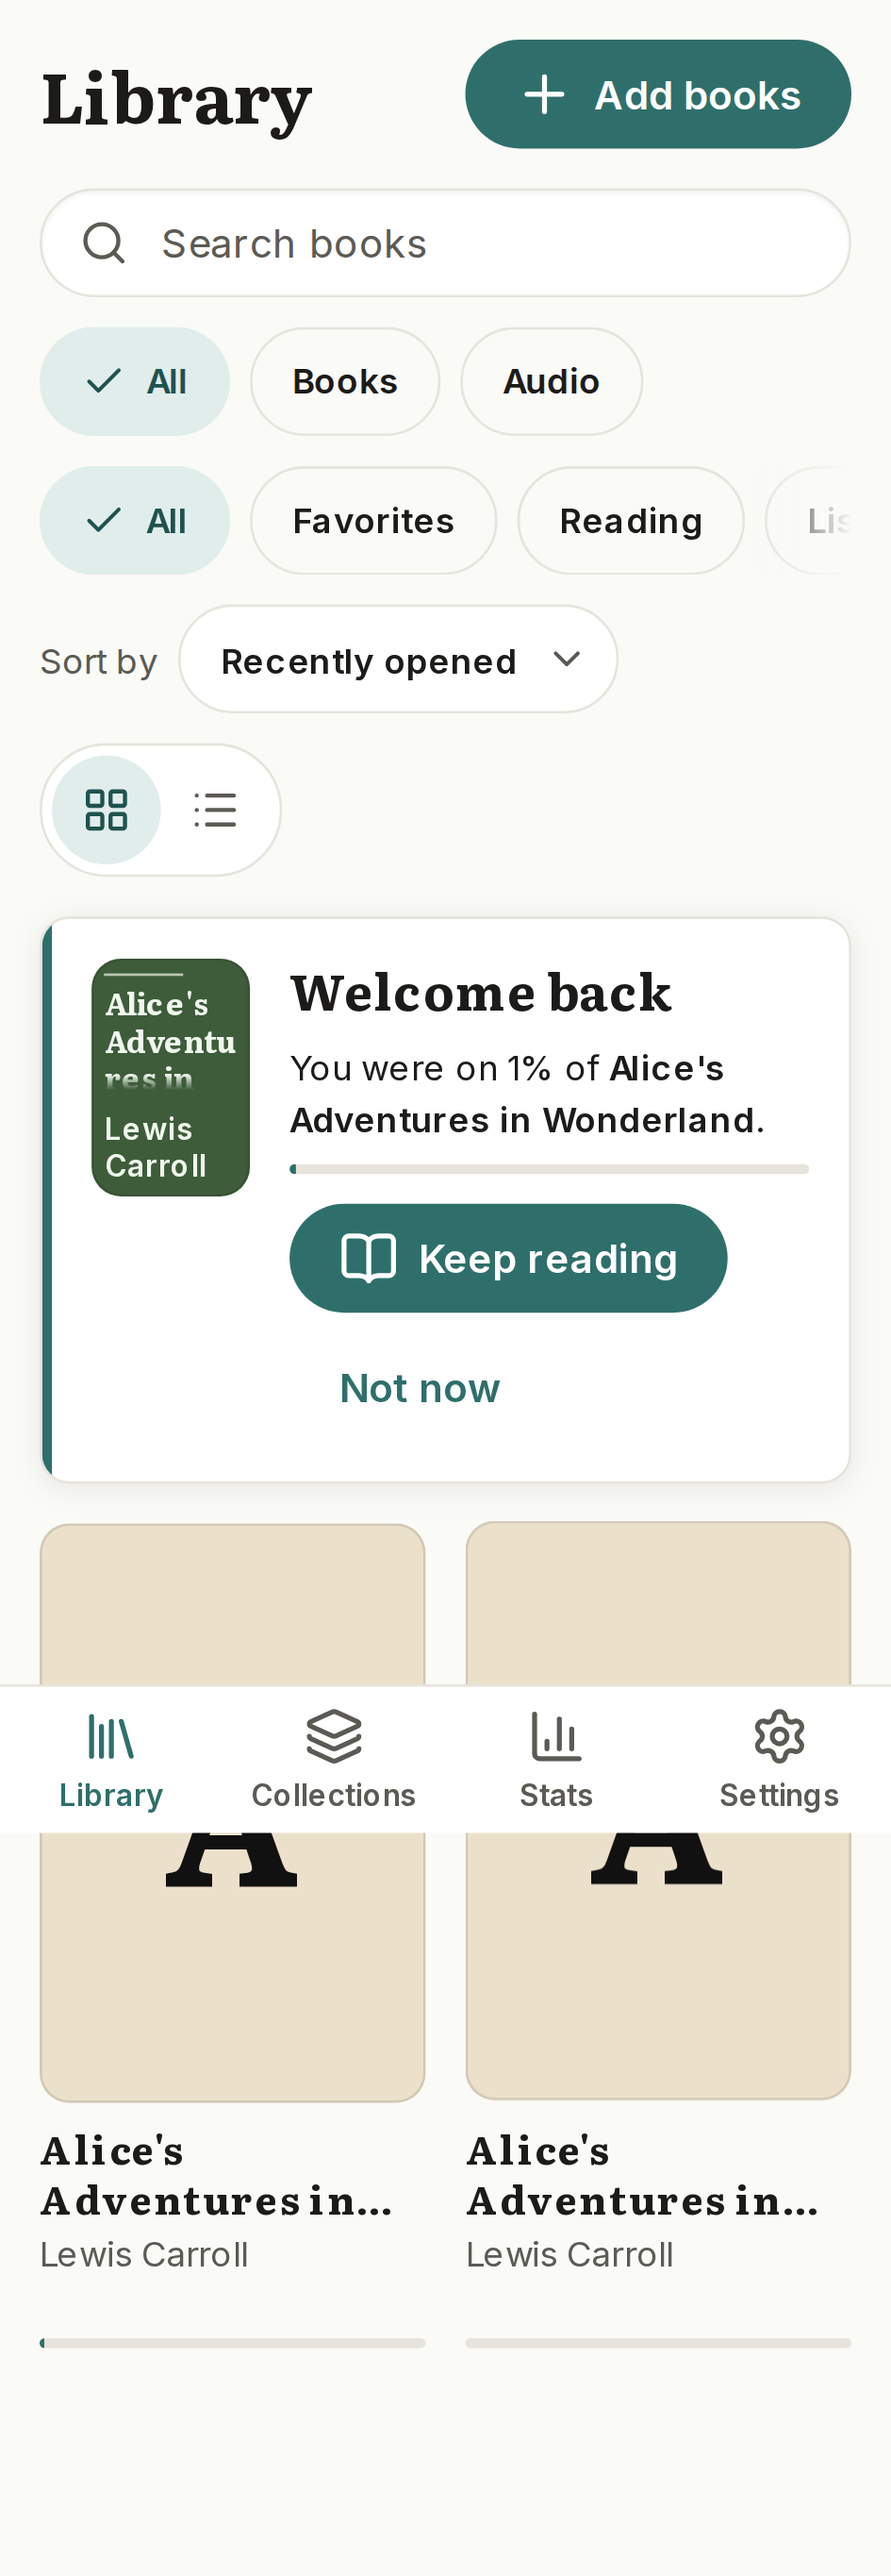
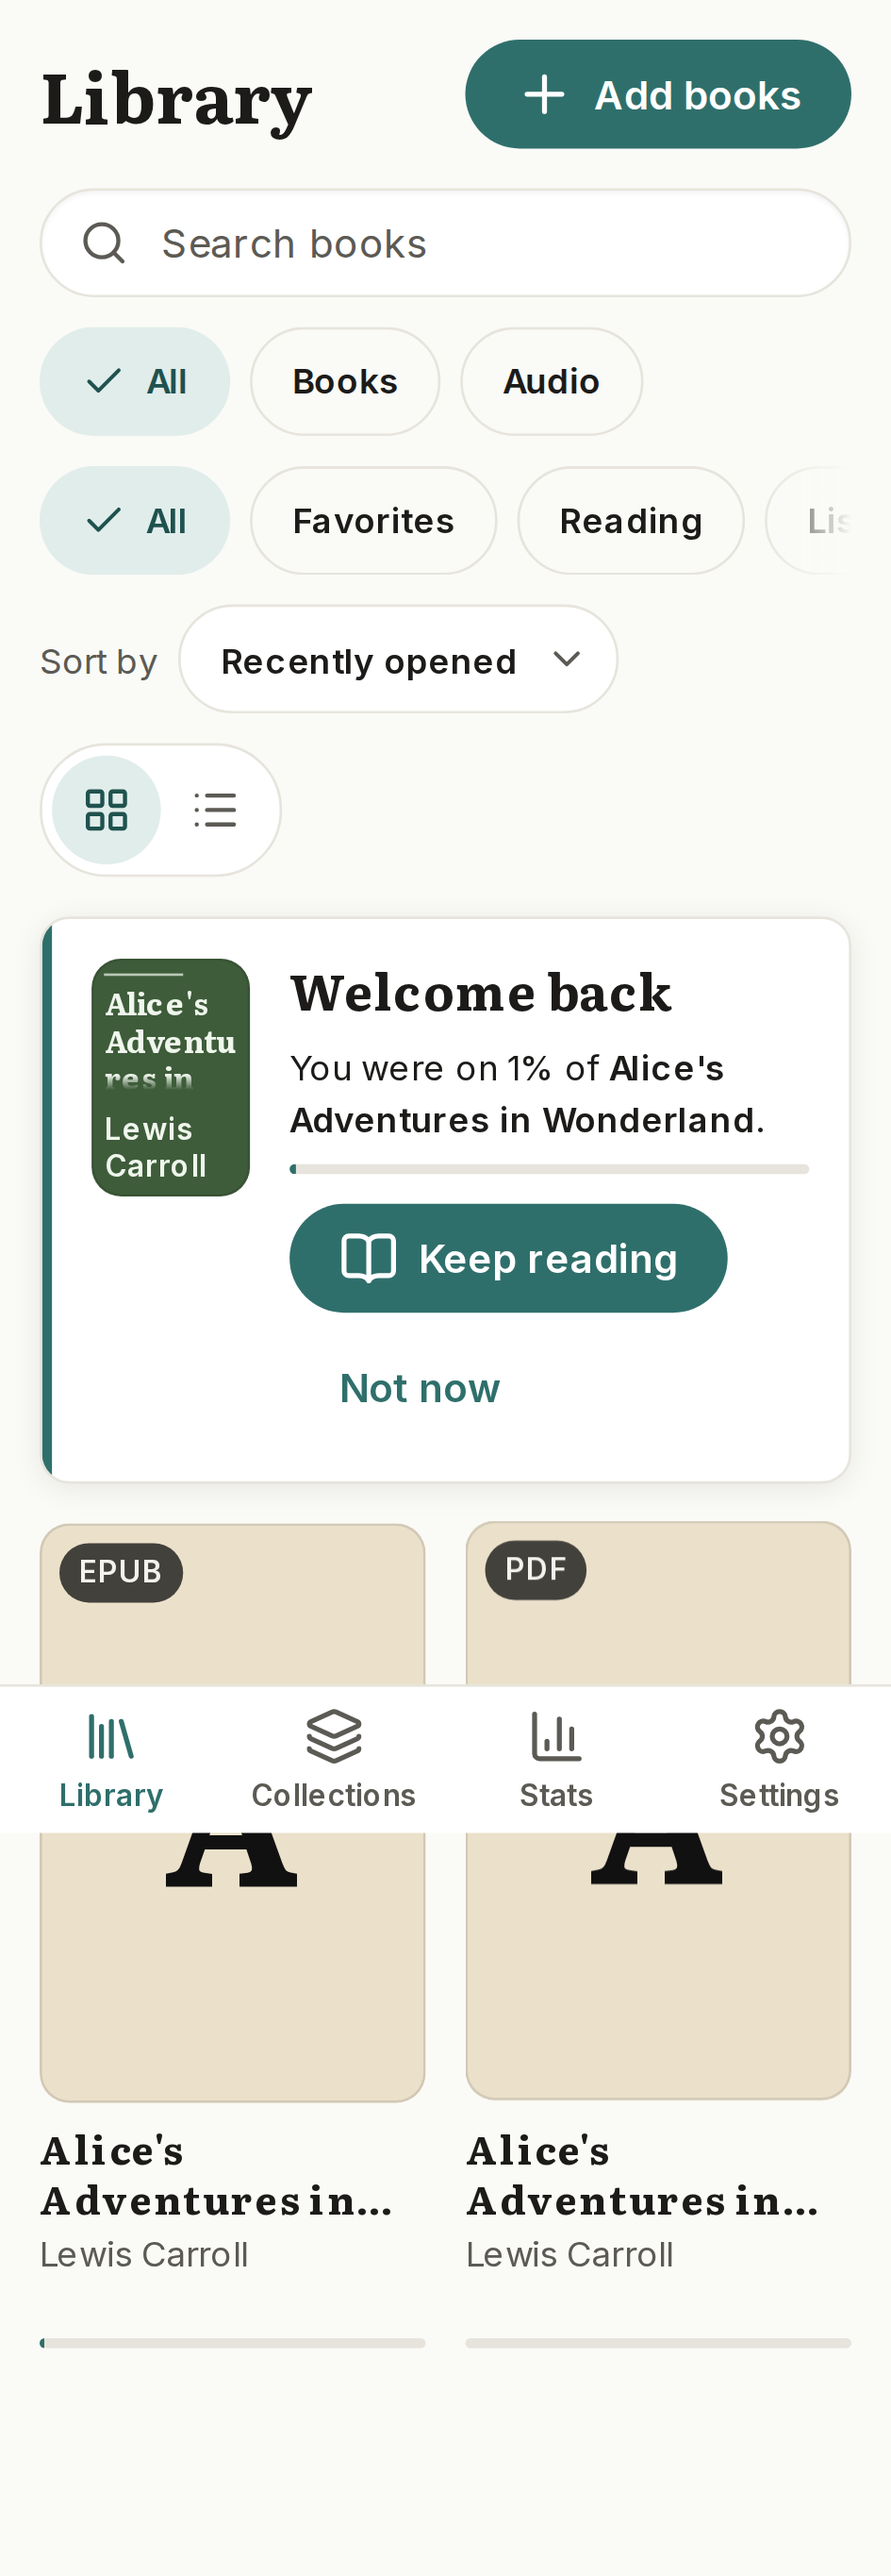
docs(smoke): ReadEra live shots and full green table at 76bb353
- Add release-smoke-live-readera.spec.ts (format, detail, copy/note, collage)
- Harden live navigation (openLibraryFromAnyRoute) for WebKit resume routes
- Refresh pagenest-42f.pages.dev screenshots and README

Changed region(s): [[0.0614, 0.5916, 0.2148, 0.6227], [0.5524, 0.5916, 0.6751, 0.6227]]

diff --git a/tests/e2e/release-smoke-live-readera.spec.ts b/tests/e2e/release-smoke-live-readera.spec.ts
@@ -1,0 +1,91 @@
+import { mkdirSync, readFileSync } from 'node:fs';
+import { dirname, join, resolve } from 'node:path';
+import { fileURLToPath } from 'node:url';
+import { expect, test, type Locator, type Page } from '@playwright/test';
+import {
+  dismissLibraryOverlays,
+  gotoTab,
+  longPress,
+  primeSmokeHints,
+  skipOnboarding,
+  waitForIndexedDbReady,
+  waitForServiceWorkerControl,
+} from './support/app';
+import { attachReleaseSmokeConsoleGuard } from './support/release-smoke-console';
+import { dismissReaderInterstitials, selectPhraseInFoliate, waitForFoliateBookTextLive } from './support/foliate-reader';
+
+const repoRoot = resolve(dirname(fileURLToPath(import.meta.url)), '../..');
+const live = process.env.PAGENEST_SMOKE_LIVE === '1';
+const host = process.env.PAGENEST_SMOKE_LIVE_HOST ?? 'live';
+const shotDir = join(repoRoot, 'docs/screens/release-smoke-live', host);
+const VIEW = { width: 360, height: 740 };
+
+async function snap(page: Page, project: string, name: string): Promise<void> {
+  mkdirSync(shotDir, { recursive: true });
+  await page.screenshot({ path: join(shotDir, `${project}-readera-${name}.png`), fullPage: true });
+}
+
+async function importAlice(page: Page): Promise<void> {
+  const epub = readFileSync(join(repoRoot, 'src/features/reader/fixtures/alice.epub'));
+  await page.goto('./');
+  await skipOnboarding(page);
+  await dismissLibraryOverlays(page);
+  await waitForIndexedDbReady(page);
+  await waitForServiceWorkerControl(page);
+  await page.getByRole('button', { name: 'Add books' }).first().click();
+  await page.getByTestId('pick-files').setInputFiles({
+    name: 'alice.epub',
+    mimeType: 'application/epub+zip',
+    buffer: epub,
+  });
+  await page.getByRole('button', { name: 'Dismiss' }).click({ timeout: 8000 }).catch(() => undefined);
+  await expect(page.getByRole('button', { name: /Alice|Wonderland/i }).first()).toBeVisible({ timeout: 120_000 });
+}
+
+test.describe('live ReadEra parity screenshots', () => {
+  test.beforeEach(async ({ page, context }, testInfo) => {
+    test.skip(!live, 'Set PAGENEST_SMOKE_LIVE=1 (npm run smoke:live).');
+    test.skip(!['release-smoke-chromium', 'release-smoke-webkit'].includes(testInfo.project.name));
+    await primeSmokeHints(context);
+    await page.setViewportSize(VIEW);
+  });
+
+  test('format chips, detail read aloud, copy/note, collection collage', async ({ page }, testInfo) => {
+    test.setTimeout(600_000);
+    const project = testInfo.project.name;
+    const errors: string[] = [];
+    attachReleaseSmokeConsoleGuard(page, errors);
+
+    await importAlice(page);
+    await expect(page.locator('.pn-bookcard__format').first()).toHaveText('EPUB');
+    await snap(page, project, '01-format-chips');
+
+    const card = page.getByRole('button', { name: /Alice|Wonderland/i }).first();
+    await card.click();
+    await expect(page.getByRole('dialog').getByRole('button', { name: 'Read aloud' })).toBeVisible();
+    await snap(page, project, '02-detail-read-aloud');
+
+    await page.getByRole('dialog').getByRole('button', { name: /^(start reading|continue reading)$/i }).click();
+    await expect(page).toHaveURL(/\/read\//, { timeout: 120_000 });
+    await dismissReaderInterstitials(page);
+    await waitForFoliateBookTextLive(page, { min: 200, needle: 'Alice' });
+    await selectPhraseInFoliate(page, 'Alice');
+    await expect(page.getByRole('button', { name: 'Copy selection' })).toBeVisible();
+    await expect(page.getByRole('button', { name: 'Add note to selection' })).toBeVisible();
+    await snap(page, project, '03-selection-copy-note');
+
+    await page.goto('./');
+    await dismissLibraryOverlays(page);
+    const libraryCard = page.getByRole('button', { name: /Alice|Wonderland/i }).first();
+    await longPress(libraryCard);
+    await expect(page.getByRole('toolbar', { name: 'Actions for selected books' })).toBeVisible();
+    await page.getByRole('button', { name: 'Add to a collection' }).click();
+    await page.getByRole('dialog', { name: 'Add to a collection' }).getByLabel('New collection').fill('Live smoke shelf');
+    await page.getByRole('button', { name: 'Make it and add' }).click();
+    await gotoTab(page, 'Collections');
+    await expect(page.locator('.pn-shelf__cover').first()).toBeVisible({ timeout: 30_000 });
+    await snap(page, project, '04-collection-collage');
+
+    expect(errors, errors.join('\n')).toEqual([]);
+  });
+});

diff --git a/tests/e2e/release-smoke-live-upgrade.spec.ts b/tests/e2e/release-smoke-live-upgrade.spec.ts
@@ -4,7 +4,7 @@ import { fileURLToPath } from 'node:url';
 import { chromium, expect, test, webkit } from '@playwright/test';
 import { isBenignReleaseSmokePageError } from './support/release-smoke-console';
 import { dismissReaderInterstitials, waitForFoliateBookTextLive } from './support/foliate-reader';
-import { dismissLibraryOverlays, primeSmokeHints, skipOnboarding, waitForIndexedDbReady, waitForServiceWorkerControl } from './support/app';
+import { dismissLibraryOverlays, openLibraryFromAnyRoute, primeSmokeHints, skipOnboarding, waitForIndexedDbReady, waitForServiceWorkerControl } from './support/app';
 
 const repoRoot = resolve(dirname(fileURLToPath(import.meta.url)), '../..');
 const live = process.env.PAGENEST_SMOKE_LIVE === '1';
@@ -78,17 +78,22 @@ test('upgraded profile: import on live URL then reopen after reload', async ({ c
   // WebKit + service worker: full reload() matches real users; chunk precache + importModule handle stale hashes.
   await page.reload();
   await waitForServiceWorkerControl(page);
-  await page.goto('./');
-  await dismissLibraryOverlays(page);
-  await page.getByRole('button', { name: /Alice|Wonderland/i }).first().click();
-  await expect(page.getByRole('dialog').getByRole('button', { name: /^(continue reading|keep reading)/i }).first()).toBeVisible({
-    timeout: 30_000,
-  });
-  await page.getByRole('dialog').getByRole('button', { name: /^(start reading|continue reading|read|open)/i }).first().click();
-  await expect(page).toHaveURL(/\/read\//, { timeout: 120_000 });
-  await dismissReaderInterstitials(page);
-  await waitForFoliateBookTextLive(page, { min: 200, needle: 'Alice' });
-  await expect.poll(async () => Number((await scrub.inputValue().catch(() => '0')) || 0), { timeout: 30_000 }).toBeGreaterThanOrEqual(
+  if (page.url().includes('/read/')) {
+    await dismissReaderInterstitials(page);
+    await waitForFoliateBookTextLive(page, { min: 200, needle: 'Alice' });
+  } else {
+    await openLibraryFromAnyRoute(page);
+    await page.getByRole('button', { name: /Alice|Wonderland/i }).first().click();
+    await expect(page.getByRole('dialog').getByRole('button', { name: /^(continue reading|keep reading)/i }).first()).toBeVisible({
+      timeout: 30_000,
+    });
+    await page.getByRole('dialog').getByRole('button', { name: /^(start reading|continue reading|read|open)/i }).first().click();
+    await expect(page).toHaveURL(/\/read\//, { timeout: 120_000 });
+    await dismissReaderInterstitials(page);
+    await waitForFoliateBookTextLive(page, { min: 200, needle: 'Alice' });
+  }
+  const scrubAfter = page.getByRole('slider', { name: 'Position in the book' });
+  await expect.poll(async () => Number((await scrubAfter.inputValue().catch(() => '0')) || 0), { timeout: 30_000 }).toBeGreaterThanOrEqual(
     savedProgress * 0.85,
   );
   await expect(page.getByText(/file for this book is missing/i)).toHaveCount(0);

diff --git a/tests/e2e/support/app.ts b/tests/e2e/support/app.ts
@@ -22,6 +22,31 @@ export function screenHeading(page: Page, name: TabName): Locator {
   return page.getByRole('heading', { level: 1, name: new RegExp(`^${name}$`, 'i') });
 }
 
+/** 500 ms long-press on a library card (multi-select). */
+export async function longPress(locator: Locator): Promise<void> {
+  const box = await locator.boundingBox();
+  if (!box) throw new Error('Element has no layout box for long press');
+  const x = box.x + box.width / 2;
+  const y = box.y + box.height / 2;
+  await locator.dispatchEvent('pointerdown', {
+    pointerId: 1,
+    pointerType: 'touch',
+    clientX: x,
+    clientY: y,
+    isPrimary: true,
+    button: 0,
+  });
+  await locator.page().waitForTimeout(550);
+  await locator.dispatchEvent('pointerup', {
+    pointerId: 1,
+    pointerType: 'touch',
+    clientX: x,
+    clientY: y,
+    isPrimary: true,
+    button: 0,
+  });
+}
+
 export async function gotoTab(page: Page, name: TabName): Promise<void> {
   await tab(page, name).click();
   await expect(tab(page, name)).toHaveAttribute('aria-current', 'page');
@@ -63,6 +88,19 @@ export async function dismissLibraryOverlays(page: Page): Promise<void> {
   await page.getByRole('dialog', { name: 'Add InkQuiet to your iPhone' }).waitFor({ state: 'visible', timeout: 2000 }).catch(() => undefined);
   await page.getByRole('button', { name: 'Got it' }).click({ timeout: 2000 }).catch(() => undefined);
   await page.getByRole('button', { name: 'Dismiss' }).click({ timeout: 2000 }).catch(() => undefined);
+}
+
+/** Leave the reader/player and show the library grid (WebKit live may resume into `/read/` on `goto('./')`). */
+export async function openLibraryFromAnyRoute(page: Page): Promise<void> {
+  const back = page.getByRole('button', { name: 'Back to library' });
+  if (await back.isVisible().catch(() => false)) {
+    await back.click();
+  } else {
+    await page.goto('./', { waitUntil: 'domcontentloaded' }).catch(() => undefined);
+    if (await back.isVisible().catch(() => false)) await back.click();
+  }
+  await dismissLibraryOverlays(page);
+  await expect(screenHeading(page, 'Library')).toBeVisible({ timeout: 60_000 });
 }
 
 /** Opens the app at its start URL, skips onboarding, and waits for the library screen (the home tab). */

diff --git a/tests/playwright.config.ts b/tests/playwright.config.ts
@@ -92,7 +92,7 @@ export default defineConfig({
     ...(includeWebkit
       ? [{ name: 'webkit-iphone', testMatch: 'e2e/**/*.spec.ts', testIgnore: ['**/release-smoke.spec.ts', '**/release-upgrade.spec.ts', '**/release-smoke-live-upgrade.spec.ts', '**/release-smoke-live-read-aloud.spec.ts'], use: { ...devices['iPhone 14'] } }]
       : []),
-    { name: 'release-smoke-chromium', testMatch: ['e2e/release-smoke.spec.ts', 'e2e/release-smoke-live-upgrade.spec.ts', 'e2e/release-smoke-live-read-aloud.spec.ts'], use: { ...devices['Pixel 7'] } },
+    { name: 'release-smoke-chromium', testMatch: ['e2e/release-smoke.spec.ts', 'e2e/release-smoke-live-upgrade.spec.ts', 'e2e/release-smoke-live-read-aloud.spec.ts', 'e2e/release-smoke-live-readera.spec.ts'], use: { ...devices['Pixel 7'] } },
     ...(includeWebkit
       ? [
           {
@@ -101,6 +101,7 @@ export default defineConfig({
               'e2e/release-smoke.spec.ts',
               'e2e/release-smoke-live-upgrade.spec.ts',
               'e2e/release-smoke-live-read-aloud.spec.ts',
+              'e2e/release-smoke-live-readera.spec.ts',
             ],
             use: { ...devices['iPhone 14'] },
           },

diff --git a/tests/e2e/release-smoke.spec.ts b/tests/e2e/release-smoke.spec.ts
@@ -2,7 +2,7 @@ import { mkdirSync, readFileSync } from 'node:fs';
 import { dirname, join, resolve } from 'node:path';
 import { fileURLToPath } from 'node:url';
 import { expect, test, type Page } from '@playwright/test';
-import { dismissLibraryOverlays, primeSmokeHints, skipOnboarding, waitForIndexedDbReady, waitForServiceWorkerControl } from './support/app';
+import { dismissLibraryOverlays, openLibraryFromAnyRoute, primeSmokeHints, skipOnboarding, waitForIndexedDbReady, waitForServiceWorkerControl } from './support/app';
 import { dismissReaderInterstitials, tapReaderZone, waitForFoliateBookTextLive } from './support/foliate-reader';
 
 const repoRoot = resolve(dirname(fileURLToPath(import.meta.url)), '../..');
@@ -166,7 +166,7 @@ test.describe('release smoke: import, open, reload, SW update', () => {
 
     const swBump = { version: 1 };
     await bumpServiceWorker(page, swBump);
-    await page.goto('./');
+    await openLibraryFromAnyRoute(page);
     await snap(page, '08-library-after-sw-bump');
     await page.goto(epubReadUrl);
     await waitForFoliateBookTextLive(page, { min: 200, needle: 'Alice', timeout: 120_000 });

diff --git a/docs/screens/release-smoke-live/pagenest-42f.pages.dev/README.md b/docs/screens/release-smoke-live/pagenest-42f.pages.dev/README.md
@@ -8,9 +8,7 @@ Run:
 npm run smoke:live -- https://pagenest-42f.pages.dev/
 ```
 
-## Deploy **`67f4221`** live smoke (2026-11-02) — **all green**
-
-Production includes SW chunk precache + import retry (#41). Upgrade spec asserts saved read position after reload.
+## Deploy **`76bb353`** (`a4c7e87` ReadEra + `67f4221` SW) — **all green** (2026-11-02)
 
 | Phase | Chromium | WebKit |
 |-------|----------|--------|
@@ -19,22 +17,32 @@ Production includes SW chunk precache + import retry (#41). Upgrade spec asserts
 | OPFS blocked | skip (live) | skip (live) |
 | Read-aloud (device) | **PASS** | **PASS** |
 | Read-aloud (legacy Piper) | **PASS** | **PASS** |
+| ReadEra parity shots | **PASS** | **PASS** |
 
-### Screenshot paths (this folder)
+### ReadEra UI screenshots (360px)
+
+| Feature | Chromium | WebKit |
+|---------|----------|--------|
+| Format chips on cards | `release-smoke-chromium-readera-01-format-chips.png` | `release-smoke-webkit-readera-01-format-chips.png` |
+| Detail **Read aloud** | `…-readera-02-detail-read-aloud.png` | `…-readera-02-detail-read-aloud.png` |
+| Selection **Copy / Note** | `…-readera-03-selection-copy-note.png` | `…-readera-03-selection-copy-note.png` |
+| Collection **cover collage** | `…-readera-04-collection-collage.png` | `…-readera-04-collection-collage.png` |
+
+Paths are under this folder (`docs/screens/release-smoke-live/pagenest-42f.pages.dev/`).
+
+### Other smoke paths
 
 **Upgrade:** `release-smoke-{chromium|webkit}-upgrade-01-import.png`, `-02-epub-open.png`, `-03-after-reload.png`
 
 **Core:** `release-smoke-{chromium|webkit}-01-library.png` … `-09-all-formats-after-sw-bump.png`
 
-**Read-aloud device:** `release-smoke-{chromium|webkit}-read-aloud-01-reader.png` … `-05-controls.png`
-
-**Read-aloud legacy:** `release-smoke-{chromium|webkit}-read-aloud-legacy-01-reader.png`, `-legacy-02-audible.png`
+**Read-aloud:** `release-smoke-{chromium|webkit}-read-aloud-*.png`, `*-read-aloud-legacy-*.png`
 
 ## Prior merges on this host
 
 | SHA | Notes |
 |-----|--------|
-| `67f4221` | SW precache + stale chunk import retry (#41) |
-| `0fbf413` | Live smoke docs (#38) |
-| `cad50b3` | CSP: omit `frame-ancestors` (#39) |
+| `76bb353` | Live smoke table (docs) |
+| `a4c7e87` | ReadEra parity batch (#42) |
+| `67f4221` | SW precache + import retry (#41) |
 | `663d74f` | All / Books / Audio segments (#37) |

diff --git a/docs/readera-parity-gaps.md b/docs/readera-parity-gaps.md
@@ -49,4 +49,4 @@ Tracking doc for owner ReadEra polish pass. **Done** items link to merge SHAs wh
 | Done | WebKit foliate engine fix (`109a37b` bootstrap + sandbox strip; `#35`) |
 | Done | Pages `_headers` CSP/COOP scoped to HTML only (`b7ec1fc`, `#36`) |
 | Done | WebKit upgrade after SW reload (`67f4221` precache + import retry; no console allowlist) |
-| Open | Full green `smoke:live` on Pages after `67f4221` deploy (360px screenshots) |
+| Done | Full green `smoke:live` on Pages after `76bb353` deploy (360px screenshots + ReadEra shots) |
